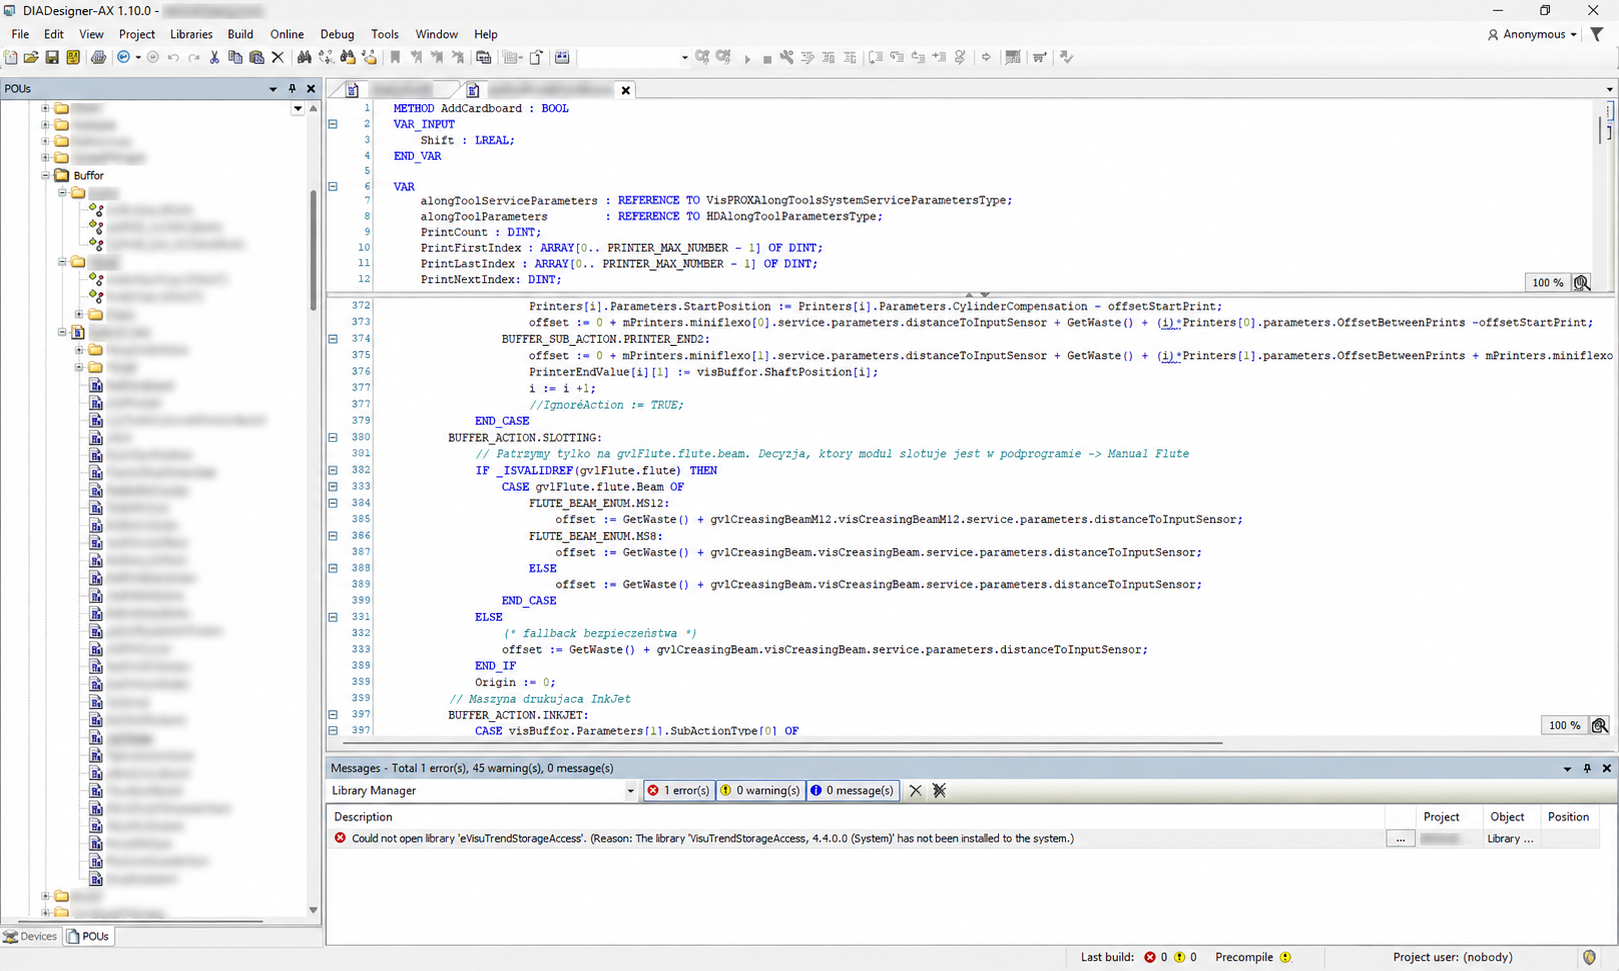
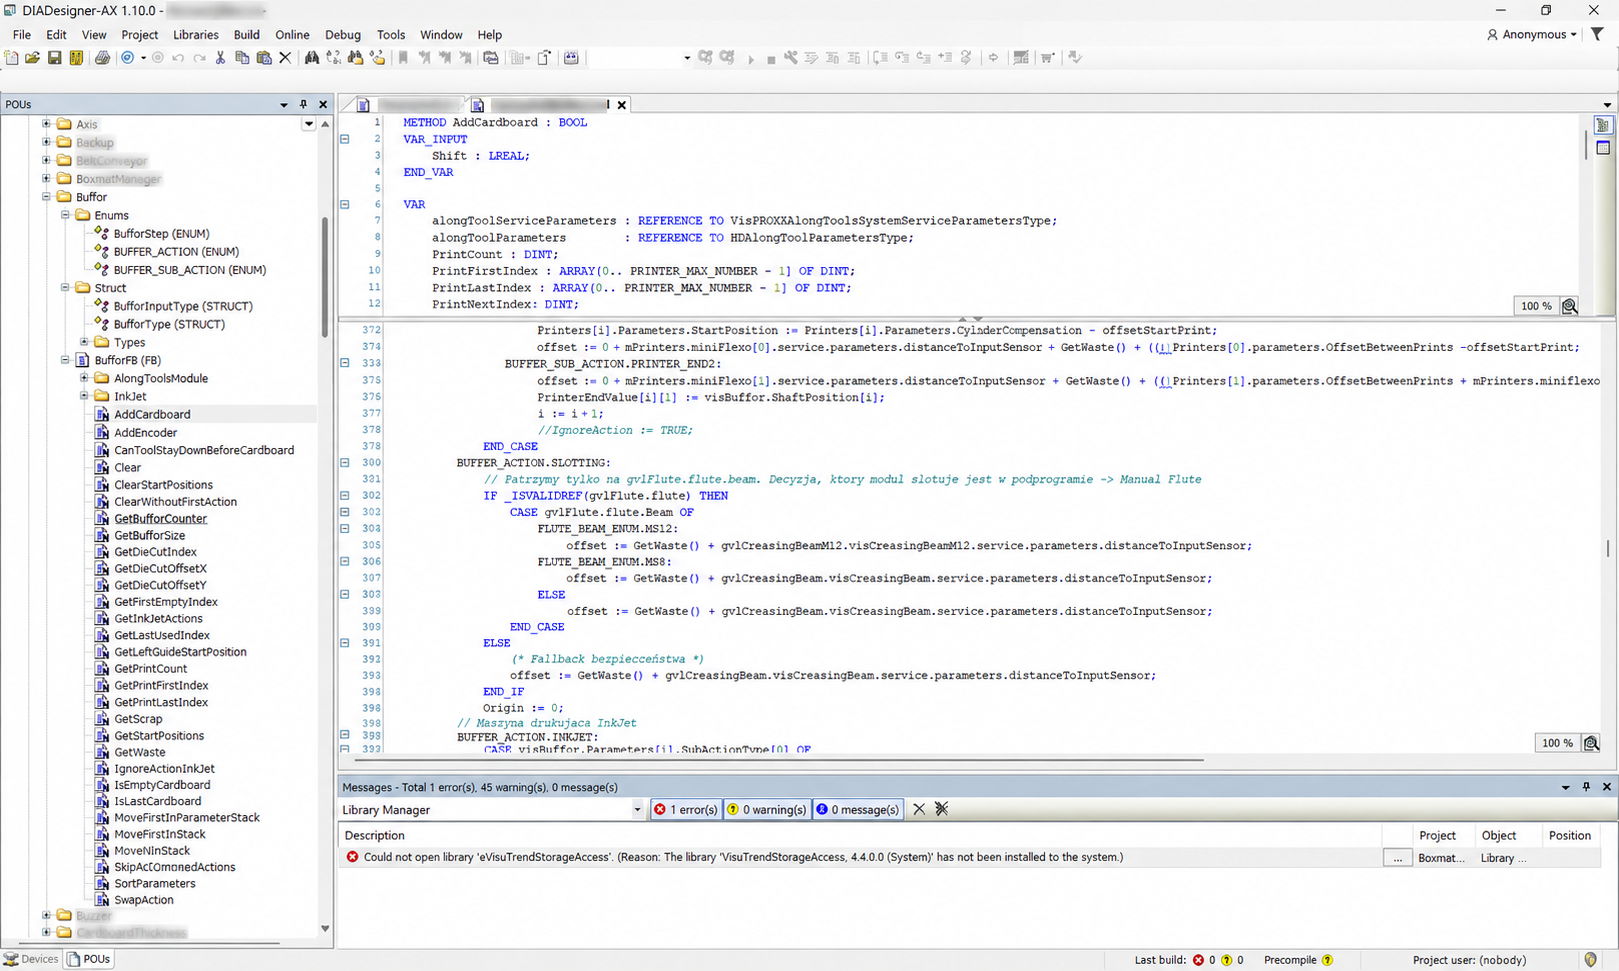
Reveal buffer subtree and place application screenshots with automation skills

Changed region(s): [[0.0, 0.0, 1.0, 1.0], [0.6485, 0.9578, 1.0, 1.0], [0.9265, 0.0309, 0.9574, 0.0618]]

diff --git a/docs/materialy-wizualne.md b/docs/materialy-wizualne.md
@@ -58,3 +58,5 @@ Aktualizacja podglądów: odtwarzacze są przygotowywane 600 px przed wejściem 
 Zrzuty w public/screenshots:
 - plc-library-redacted.png: z rzeczywiście otwartego okna biblioteki sterowania, na życzenie właściciela. Edycja wbudowanym imagegen: „Wytnij pusty panel ToolBox po prawej; zamazuj nazwy w drzewie poza folderem Buffor oraz nazwę projektu i tytuły kart; pozostaw kod czytelny”. Zachowano widoczną strukturę, folder Buffor i kod; plik jest zrzutem po edycji, nie surowym eksportem kodu. Prywatny oryginał pozostaje poza repozytorium.
 - scada-trends.png: rzeczywisty ekran trendów z załącznika korespondencji projektu SCADA (23.09.2026), wydobyty lokalnie ze służbowej skrzynki. Na bezpośrednie polecenie właściciela użyto oryginału bez blur; plik skopiowano bez zmian. Nie dołączono treści maili, kontaktów ani załączników projektu.
+
+Na życzenie właściciela odsłonięto całą rozwiniętą zawartość folderu Buffor (podfoldery, typy i metody); pozostałe foldery i nazwa projektu pozostają zamazane. Edycja wbudowanym imagegen na podstawie prywatnego oryginału: „Zachowaj czytelny cały podzbiór drzewa Buffor i kod, zamazuj tylko sąsiednie foldery i nazwę projektu, wytnij pusty prawy panel”. Oba zrzuty umieszczono w sekcji kompetencji „Automatyka od A do Z”, bezpośrednio pod kompetencjami automatyki i przed częścią IT.
